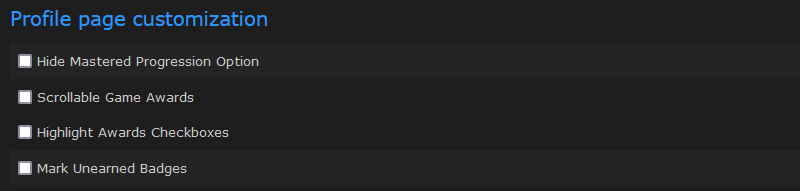
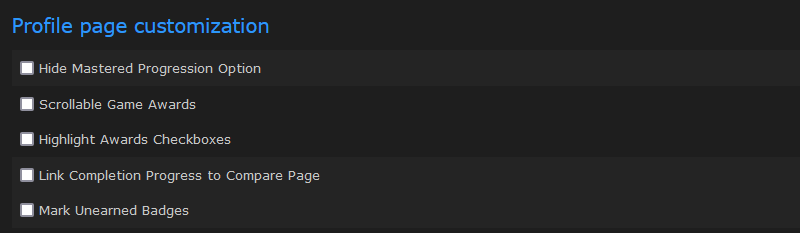
CustomizeProfile : adds "Link Completion Progress to Compare Page" feature + doc updated

diff --git a/RA_CustomizeProfile.user.js b/RA_CustomizeProfile.user.js
@@ -14,14 +14,15 @@
 // @grant        GM_getValue
 // ==/UserScript==
 
+// authenticated user
+const getCurrentUser = () => document.querySelector('div.dropdown-menu-right div.dropdown-header')?.textContent;
+// only works on profile page
+const getPageUser = () => document.querySelector('article h1')?.textContent;
+
 // Checks whether the profile page is the user's own profile
 function isOwnProfile() {
-    const currentUserDiv = document.querySelector('div.dropdown-menu-right div.dropdown-header');
-    if (!currentUserDiv) return false; // not authenticated
-    const currentUser = currentUserDiv.textContent;
-    const pageUserDiv = document.querySelector('article h1');
-    const pageUser = pageUserDiv.textContent;
-    return currentUser === pageUser;
+    const currentUser = getCurrentUser();
+    return currentUser && currentUser === getPageUser();
 }
 
 function newElement(tagName, parent, className = null, innerHTML = null) {
@@ -61,6 +62,7 @@ const settingsHtml = `<div class="component">
     <tr><td>Maximum height of the section with the scroll bar</td><td><input id="scrollAwardsMaxHeight" type="number" min="10" style="width: 7em;"><span title="em: font-size of the element" style="cursor: help;"> em</span></td></tr>
     <tr><td>Thin scrollbar</td><td><input id="scrollAwardsThinBar" type="checkbox"></td></tr>
     <tr><th colspan="2"><label><input id="highlightAwardsActive" type="checkbox"> Highlight Awards Checkboxes</label></th></tr>
+    <tr><th colspan="2"><label><input id="progressLinkActive" type="checkbox"> Link Completion Progress to Compare Page</label></th></tr>
   </tbody></table>
   <table class="table-highlight"><tbody>
     <tr><th colspan="2"><label><input id="markUnearnedActive" type="checkbox"> Mark Unearned Badges</label></th></tr>
@@ -412,11 +414,48 @@ const HighlightAwards = (() => {
     return { profilePage, settingsPage };
 })();
 
+const LinkHighScore2Compare = (() => {
+    const DefaultSettings = {
+        active: true
+    };
+
+    const Settings = loadSettings('progressLink', DefaultSettings);
+
+    function settingsPage() {
+        const activeCheckbox = document.getElementById('progressLinkActive');
+        activeCheckbox.checked = Settings.active;
+
+        activeCheckbox.addEventListener('change', () => {
+            Settings.active = activeCheckbox.checked;
+            GM_setValue('progressLink', Settings);
+        });
+    }
+
+    function profilePage() {
+        if (!Settings.active) return;
+        if (!getCurrentUser()) return; // not authenticated
+        const pageUser = getPageUser();
+        document.querySelectorAll('#usercompletedgamescomponent tr').forEach(tr => {
+            const scoreCell = tr.children.item(1);
+            const barDiv = scoreCell.firstElementChild;
+            // creating the link
+            const gameId = tr.getElementsByTagName('a')[0].href.split('/').at(-1);
+            const newLink = document.createElement('a');
+            newLink.href = `/user/${pageUser}/game/${gameId}/compare`;
+            barDiv.replaceWith(newLink);
+            newLink.append(barDiv);
+        });
+    }
+
+    return { profilePage, settingsPage };
+})();
+
 function profilePage() {
     ScrollAwards.profilePage();
     HideMasteredProgress.profilePage();
     MarkUnearnedAwards.profilePage();
     HighlightAwards.profilePage();
+    LinkHighScore2Compare.profilePage();
 }
 
 function settingsPage() {
@@ -431,6 +470,7 @@ function settingsPage() {
     HideMasteredProgress.settingsPage();
     MarkUnearnedAwards.settingsPage();
     HighlightAwards.settingsPage();
+    LinkHighScore2Compare.settingsPage();
 }
 
 const urlPathname = window.location.pathname;

diff --git a/README.md b/README.md
@@ -45,6 +45,12 @@ This feature doesn't differentiate between mastery and completion badges.
 
 ![Highlight Awards - all](/assets/HighlightAwards_all.png) ![Highlight Awards - common](/assets/HighlightAwards_common.png) ![Highlight Awards - others](/assets/HighlightAwards_others.png)
 
+### Link Completion Progress to Compare Page
+
+Adds links to *Compare Unlocks* page on the progress bars from the *Completion Progress* section.
+
+![completion progress links](/assets/CustomizeProfile_progressLinks.png)
+
 ### Mark Unearned Badges
 
 When achievements are added by a revision to a game previously mastered or completed, the mastery (or completion) status is lost on the game page, but the badge remains. These games can now be found on the *Completion Progress* page, using the filter *Games with awards for revised sets*.
@@ -160,9 +166,9 @@ The style of the link can be edited in the settings.
 
 ![history links settings](/assets/CustomCheevosList_historyLinks_settings.png) ![history links style example](/assets/CustomCheevosList_historyLinks_style.png)
 
-### Link High Scores To Compare Page
+### Link High Scores to Compare Page
 
-Adds links to Game Compare page on the scores from the high score section.
+Adds links to *Compare Unlocks* page on the scores from the high score section.
 
 ![high scores links](/assets/CustomCheevosList_highScoresLinks.png)
 
@@ -174,14 +180,14 @@ Allows to change the display of unlock count and rate for achievements on a game
 
 3 options are available:
 - displaying the hardcore values only (the values combining hardcore and softcore are still available by mouseover on the progress bar)
-- displaying the total (hardcore+softcore) only (hardcore values on mousover on the progress bar)
+- displaying the total (hardcore+softcore) only (hardcore values on mouseover on the progress bar)
 - displaying both in parallel
 
 | ![hardcore unlocks](/assets/CustomUnlockCounts_hardcore.png) | ![total unlocks](/assets/CustomUnlockCounts_total.png) | ![both unlock types](/assets/CustomUnlockCounts_both.png) |
 | -------- | -------- | -------- |
 | Hardcore |  Total   |   Both   |
 
-Hardcore data uses the hardcore unlocks, but also the hardcore players count as total (players having at least one hardcore unlock on the set). They are a bit longer than the rest to display, as they wait for the data to be available in the distribution chart.
+Hardcore data uses the hardcore unlocks, but also the hardcore players count as total (players having at least one hardcore unlock on the set). For subsets, this behavior is different than the normal one (for total values), which uses the player count for the game. They are a bit longer than the rest to display, as they wait for the data to be available in the distribution chart.
 
 Progress bars are not modified (except for the mouseover text), and the achievements page is not supported by this feature at the moment.
 
